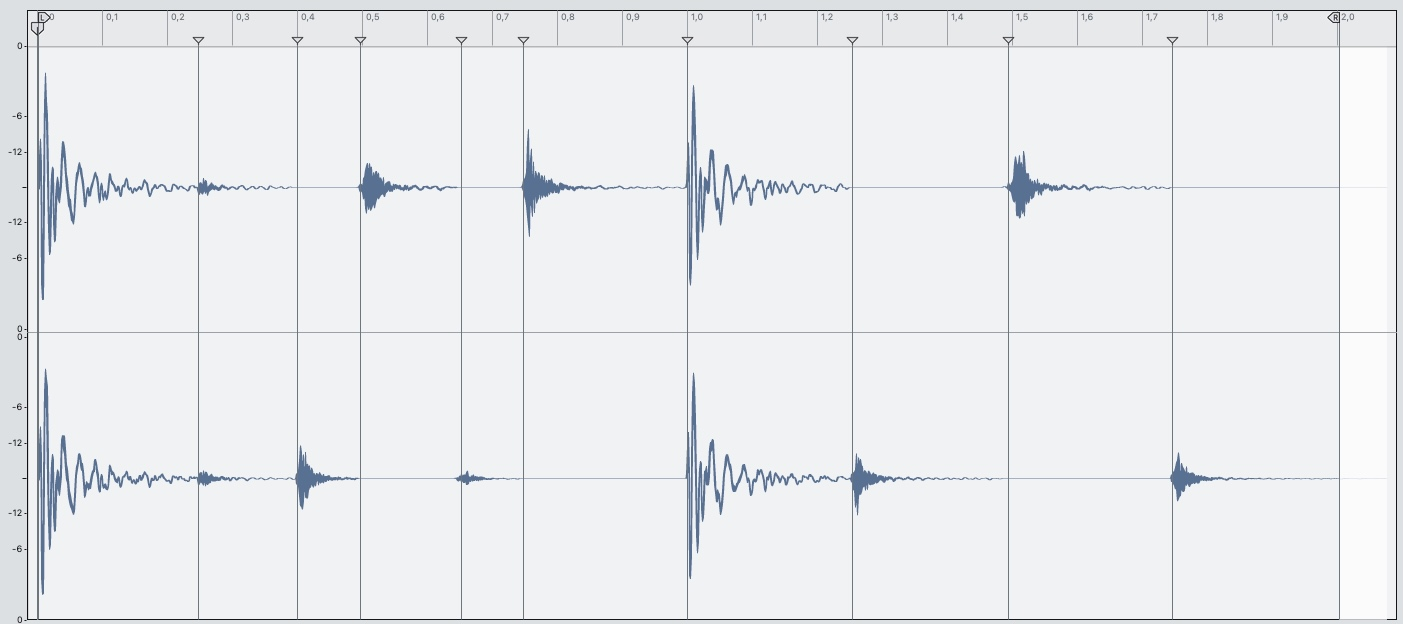
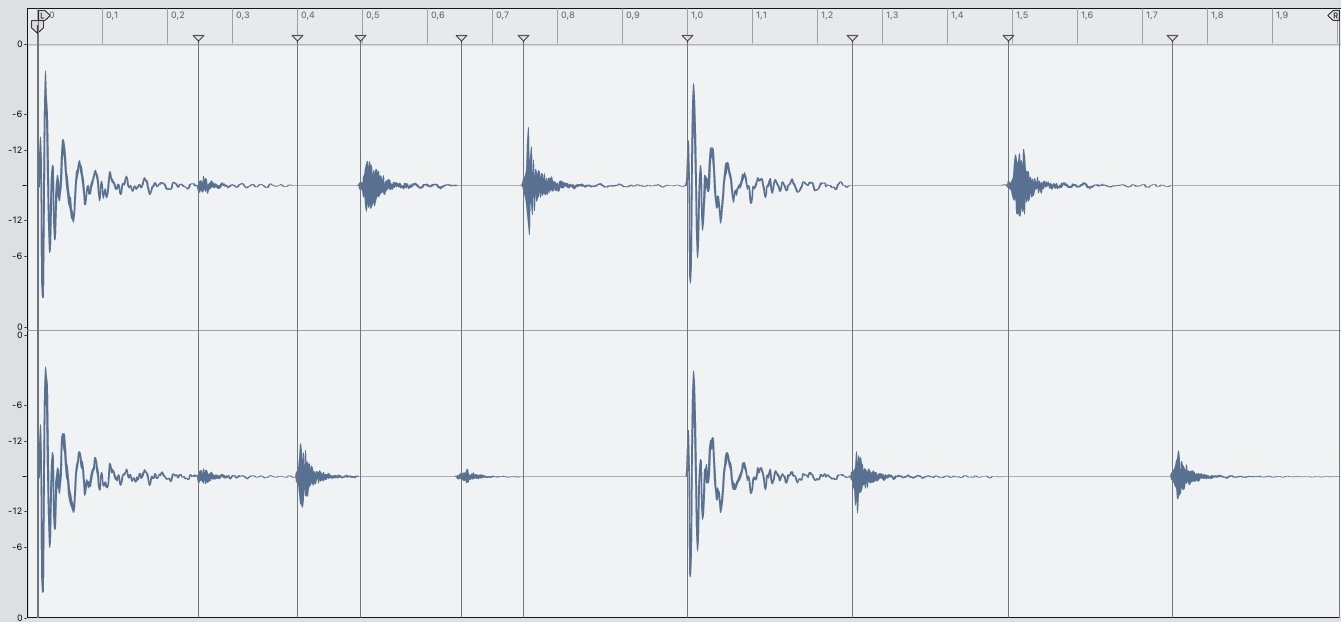
More comparisons

Changed region(s): [[0.0, 0.0, 1.0, 1.0]]

diff --git a/scripts/visualize_rx2.py b/scripts/visualize_rx2.py
@@ -212,7 +212,7 @@ def plot(time_axis, left, right, slice_times, loop_dur, bpm, sr, channels, title
     height_ratios = [0.075] + [1.0] * n_ch
     fig, all_axes = plt.subplots(
         n_ch + 1, 1,
-        figsize=(14, fig_h),
+        figsize=(13.4, fig_h),
         gridspec_kw={"hspace": 0.0, "height_ratios": height_ratios},
     )
     fig.patch.set_facecolor("#f2f2f8")
